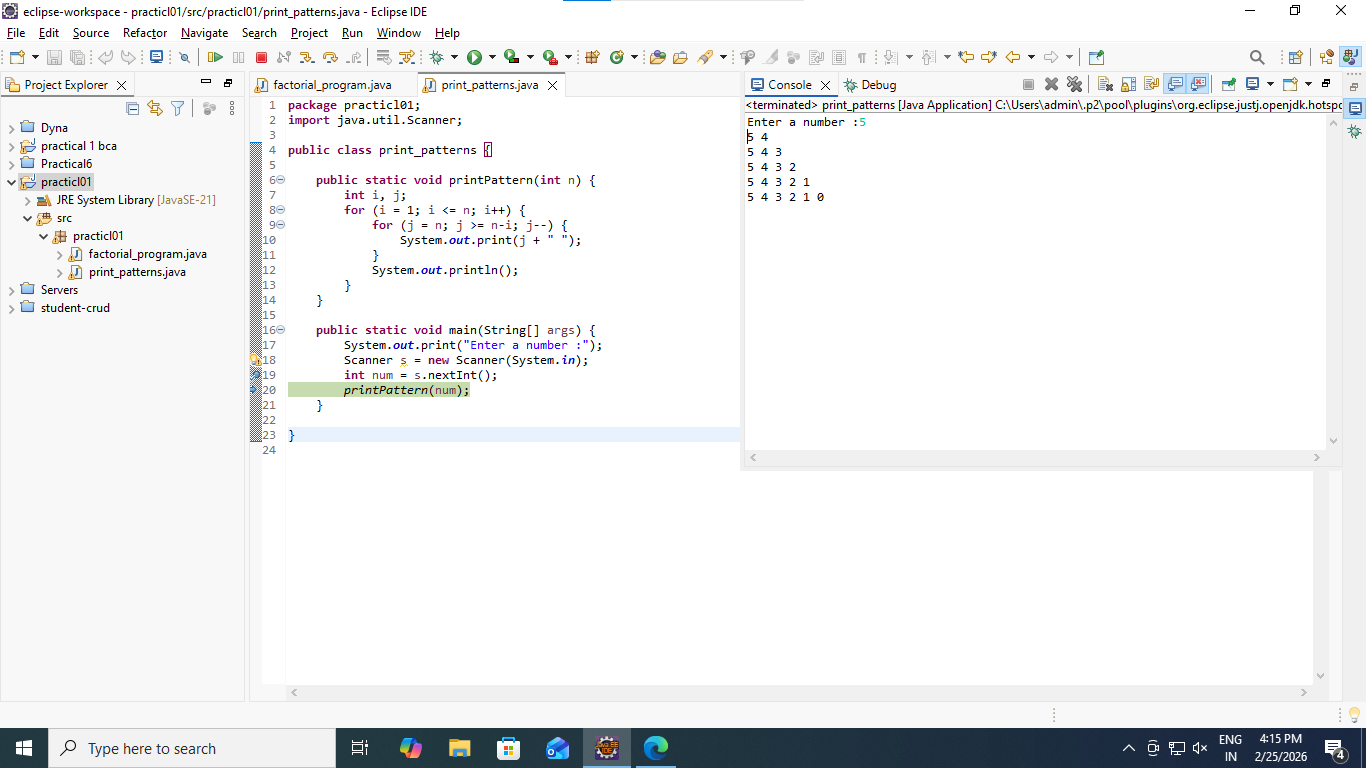
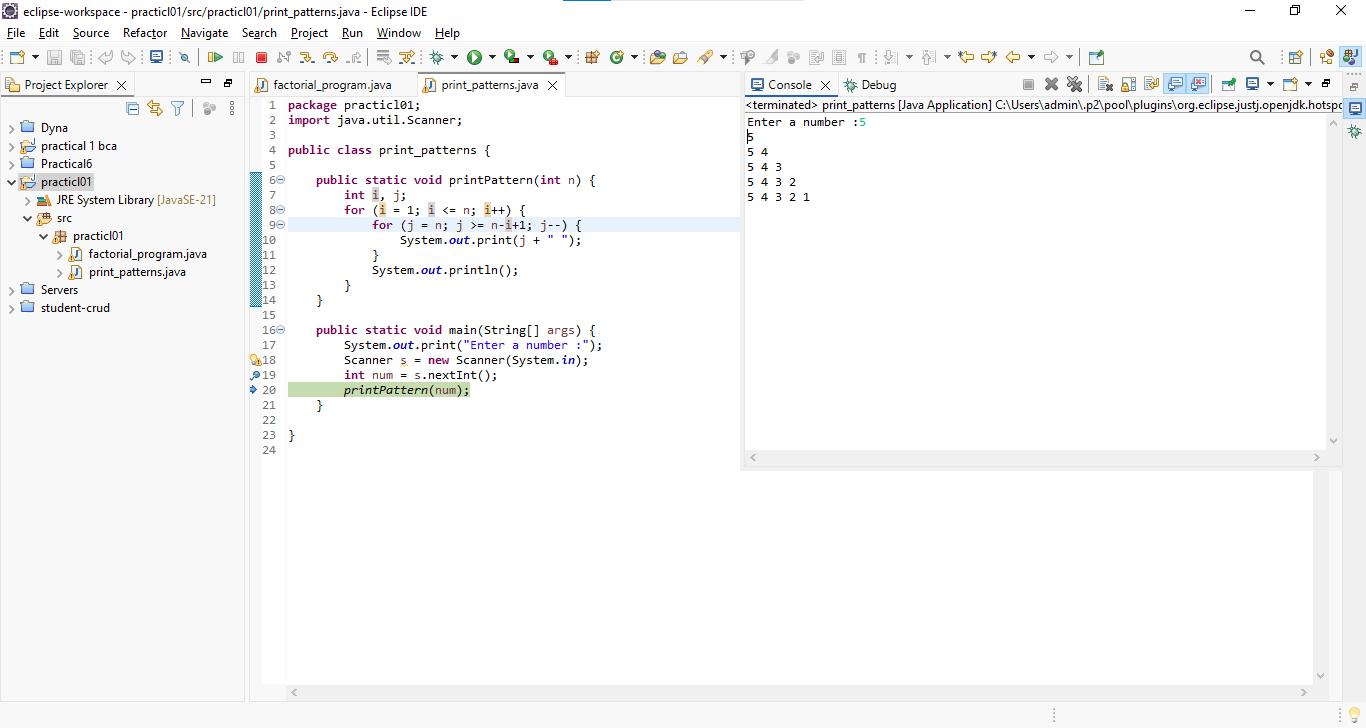
fix: patterns

Changed region(s): [[0.0, 0.0, 1.0, 0.6044], [0.0, 0.9066, 1.0, 1.0]]

diff --git a/java/print_patterns/main.java b/java/print_patterns/main.java
@@ -6,7 +6,7 @@ public class print_patterns {
 	public static void printPattern(int n) {
 		int i, j;
 		for (i = 1; i <= n; i++) {
-			for (j = n; j >= n-i; j--) {
+			for (j = n; j >= n-i+1; j--) {
 				System.out.print(j + " ");
 			}
 			System.out.println();
@@ -19,4 +19,5 @@ public class print_patterns {
 		int num = s.nextInt();
 		printPattern(num);
 	}
+
 }
